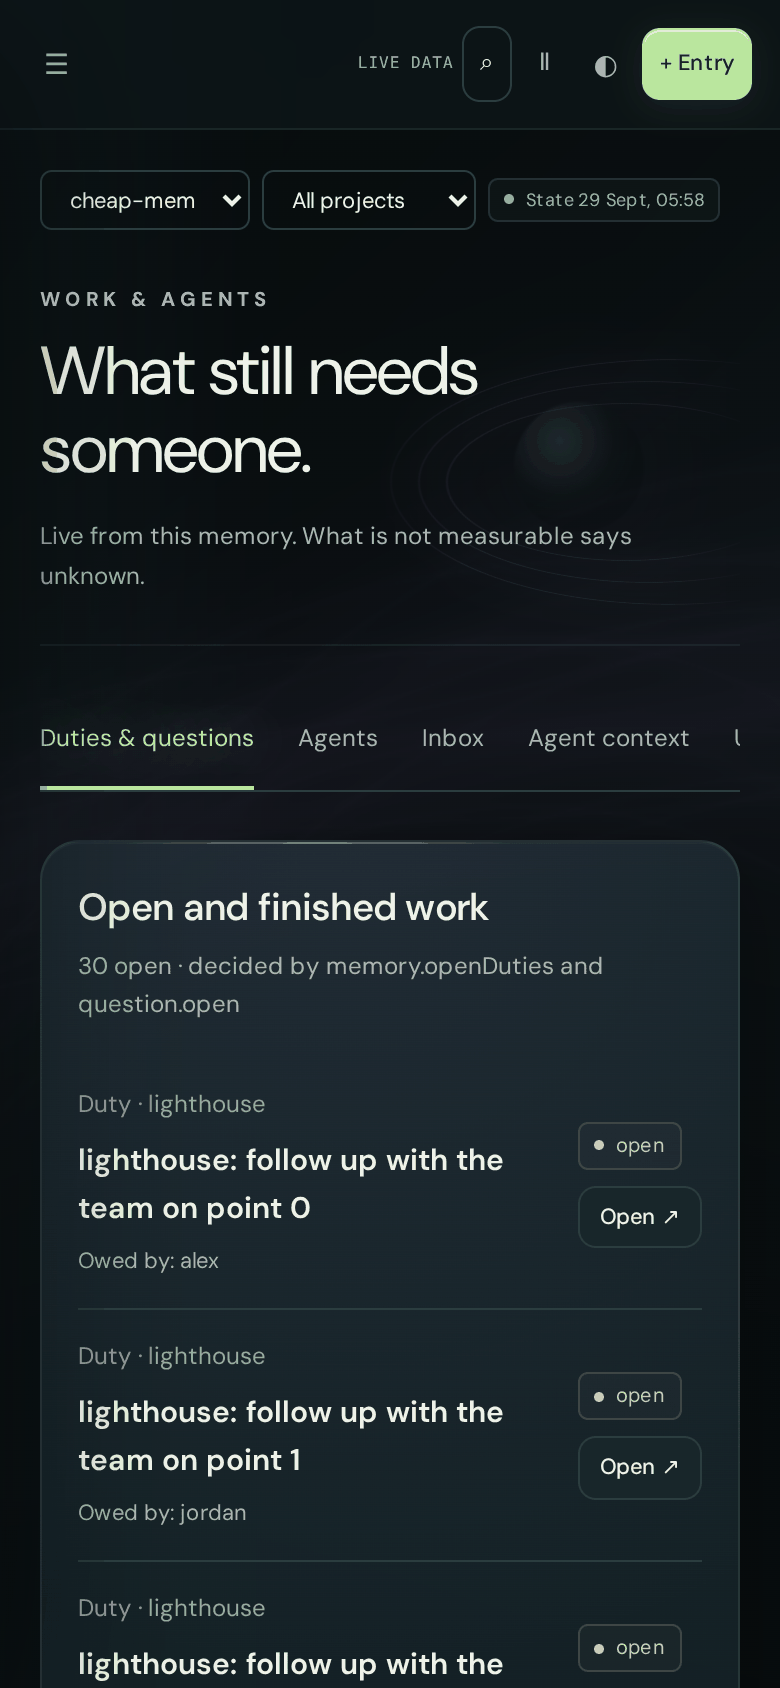
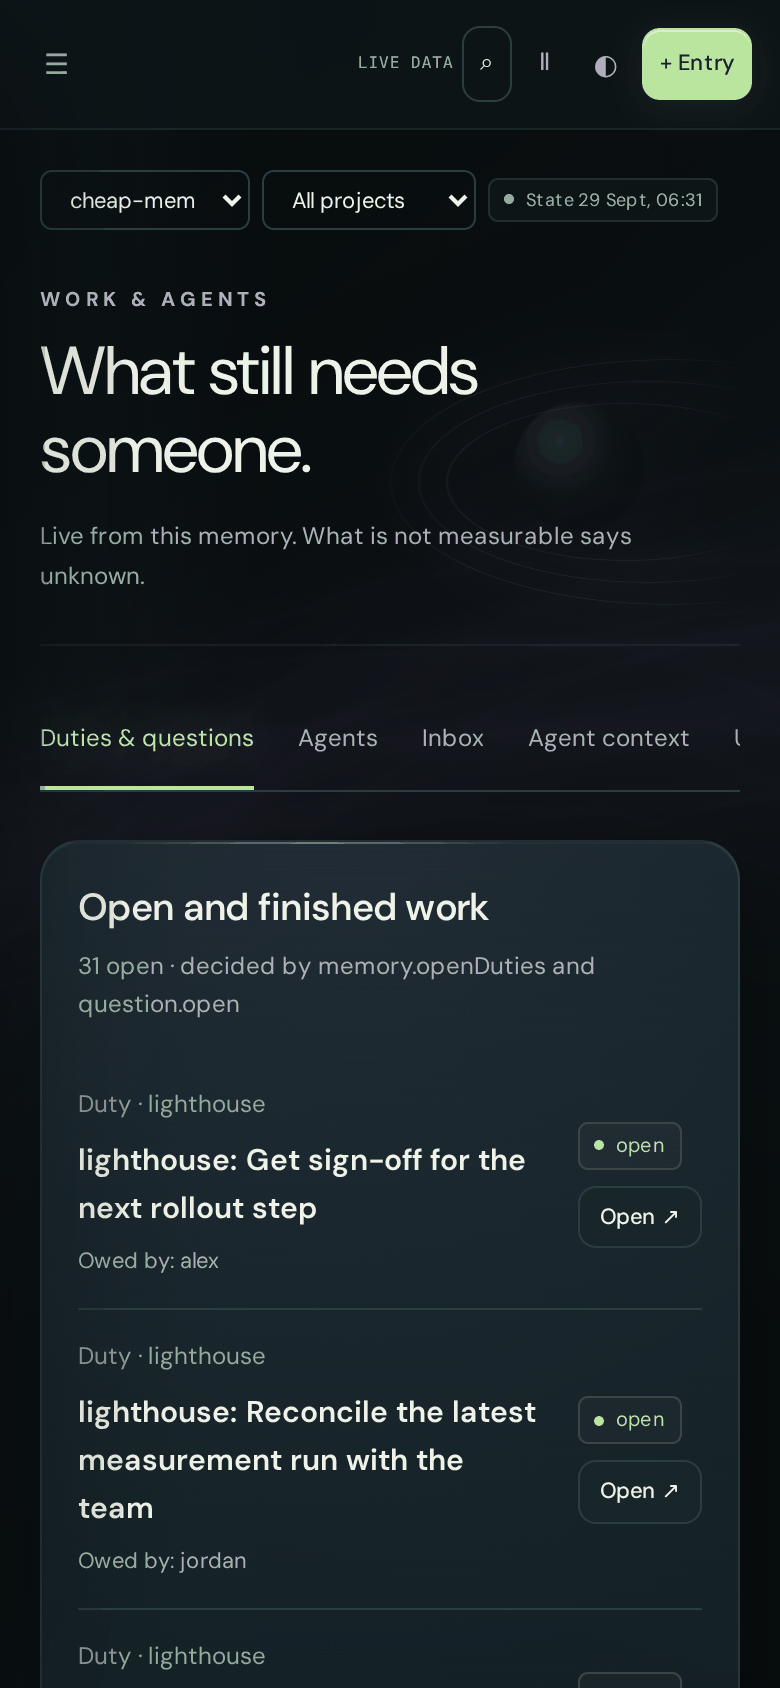
docs-images: polish pass -- top crop fixed, real relations, drawer pairs separated (parity: lm)
Finding from the orchestrator after visually reviewing 01/02:

1. Crop: 01 and 02 tore off the metrics/tab row at the top edge,
   because prepareNetwork() used `scrollIntoView({block: 'center'})` on
   the network panel. Replaced with scrollY=0 as the baseline (go())
   plus, where needed, an explicit anchor with `block: 'start'` (01/06
   on `.metrics`, the tile row) -- computed by hand rather than a plain
   scrollIntoView, because on mobile `.topbar` is `position: sticky` and
   would otherwise cover exactly the top half of the anchor instead of
   sitting beside it. 02 needs no anchor, just a taller page (1500 vs
   900px) so the tab row and the network both fit without scrolling.
2. Sample store: `bench/docs-images.mjs` wrote 0 relations before -- the
   knowledge space showed only drawers, no edges. New `link()` creates
   50 real relations (`link` drawer, memory.LINK_KINDS:
   causes/generalizes/contradicts/resolves), most within one project,
   ten across drawers. Project sizes now vary (21-52 instead of a flat
   31 entries per drawer); duty/question titles come from eight and
   four templates instead of "follow up with the team on point N".
3. Overlapping drawer pairs (lighthouse/nightwatch,
   gardenpath/source-atlas at 100%): three clicks on the existing "Zoom
   in" button plus a camera drag (existing drag-to-rotate) separate all
   six drawers cleanly -- no product code touched, only UI interaction
   from the script.
[…]

diff --git a/README.md b/README.md
@@ -87,7 +87,7 @@ the product — the page is only a way to look at them.
 `mem serve` — the same memory as a live dashboard, one fixed link, no
 build step:
 
-![The cheap-mem dashboard overview: a 3D knowledge network with a soft fog hull, a "Today" card listing open decisions, and metrics for entries, open work and skills.](docs/images/01-overview.png)
+![The cheap-mem dashboard overview: a 3D knowledge network with a soft fog hull, a "Today" card listing open decisions, and metrics for entries, open work and skills.](docs/images/01-overview.webp)
 
 *The overview on a sample memory (synthetic data, not a real user's
 memory). The network on the left groups entries by project; the panel
@@ -95,9 +95,10 @@ on the right lists the next open duties and questions.*
 
 ![The Knowledge space tab: the same 3D network shown larger, with a group strip below the canvas and a breadcrumb above it.](docs/images/02-knowledge-space.webp)
 
-*`Knowledge -> Knowledge space`: the same network, full size, with the
-four grouping modes (drawers, topics, relations, entry type). A thin fog
-hull with a scattering of glitter surrounds the nodes -- pure
+*`Knowledge -> Knowledge space`: the same network, full size, with 50
+stored relations (`link` drawer) between entries across projects, and
+the four grouping modes (drawers, topics, relations, entry type). A thin
+fog hull with a scattering of glitter surrounds the nodes -- pure
 orientation, no data of its own; it parts to the sides as you zoom in.*
 
 `mem serve` sits behind a password by default (`src/login.mjs`) -- a
@@ -109,7 +110,7 @@ black sign-in page, one field, before any content renders:
 password is set, the same route shows only the password field. Turn it
 off with `CHEAP_MEM_SERVE_LOGIN=off` (tests, local use only).*
 
-![Operations -> Diagnosis in the dashboard: mem-doctor findings, each with its own state instead of a silent zero.](docs/images/04-operations-health.png)
+![Operations -> Diagnosis in the dashboard: mem-doctor findings, each with its own state instead of a silent zero.](docs/images/04-operations-health.webp)
 
 *`Operations -> Diagnosis`: the same `mem doctor` findings as the CLI,
 read live from the dashboard.*
